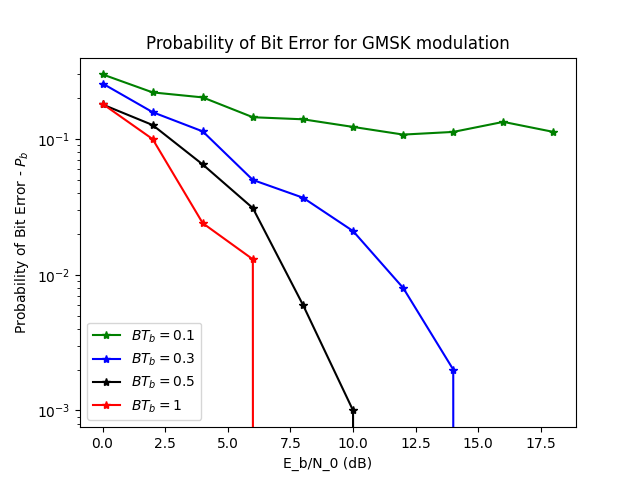
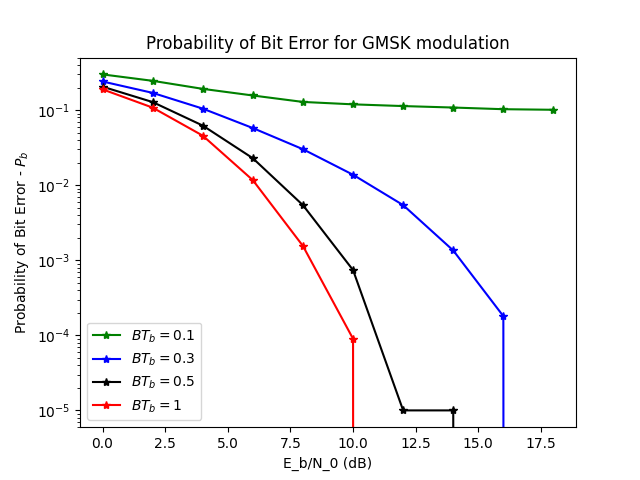
saving

diff --git a/ch2_demo_scripts.py b/ch2_demo_scripts.py
@@ -635,7 +635,7 @@ def gmsk():
     from passband_modulations import gmsk_mod, gmsk_demod
     from channels import awgn
 
-    N=1000 # Number of symbols to transmit
+    N=100000 # Number of symbols to transmit
     EbN0dB = np.arange(0,19,2) # Eb/N0 range in dB for simulation
     BTs = [.1,.3,.5,1] # Gaussian LPF's BT products
     fc = 800 # Carrier frequency in Hz (must be < fs/2 and > fg)
@@ -647,7 +647,7 @@ def gmsk():
     plt.clf()
 
     for i, BT, in enumerate(BTs):
-        print(BT)
+        
         a = np.random.randint(2, size=N) # Uniform random symbols from 0s and 1s
         (s_t, s_complex) = gmsk_mod(a,fc,L,BT,enable_plot=True) # GMSK modulation
         BER = np.zeros(len(EbN0dB)) # For BER values for each Eb/N0
